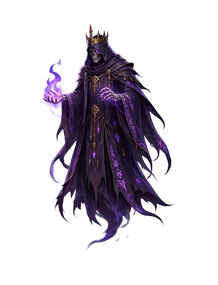
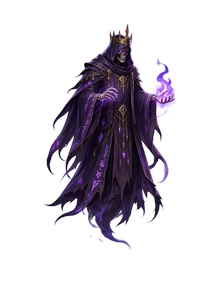
Mordath: 1º quadro do andar espelhado e chefe desenhado por cima dos mobs
- walk_0 olhava para trás: espelhado (pés continuam alinhados no centro do quadro)
- Chefe no nível de desenho acima dos mobs (inclusive os que ele invoca);
  anjo, projéteis e efeitos no mesmo nível, mantendo a ordem chefe < anjo < efeitos

Changed region(s): [[0.1927, 0.0842, 0.8257, 0.8702], [0.7156, 0.1965, 0.7431, 0.2246]]

diff --git a/art_source/README.md b/art_source/README.md
@@ -12,7 +12,7 @@ Esta pasta tem `.gdignore`: o Godot NÃO importa nem exporta nada daqui (não pe
 | `hell_projectile_sheet.webp` | Projétil da Morte do Inferno (6 quadros, fundo branco): esfera com penas, estrela, 3 quadros do projétil, desfazendo | Recortada em `assets/angel/hp_charge`, `hp_burst`, `hp_bolt_0..2`, `hp_fade` (usados por `AngelShot.hell_shot`). A prévia animada que veio junto não é usada |
 | `spear_frames.zip` | Lança Celestial: 6 quadros 832x832 com transparência (surgir, carregar, disparar, voar, impacto, desfazer) | Recortados (só o vazio) em `assets/skills/celestial_lance/frame_1..6.png`; pontos de referência em `LanceFx.PIVOTS` |
 | `baal/` (6 folhas, fundo transparente) | Baal: andar, preparar/correr a investida, pancada em área, golpe corpo a corpo (`baal_melee`, o 3º quadro não é usado), morte | Recortadas (metade da resolução, tamanho igualado entre as folhas) em `assets/bosses/baal/*.png`, todas num quadro 380x232 com os pés no mesmo ponto; animações em `BossArt.SHEETS`. O 1º quadro da morte foi espelhado (olhava para o outro lado). O avanço da folha de investida (3º quadro) não é usado |
-| `mordath/` (6 folhas, fundo transparente) | Mordath: flutuar, conjurar/lançar, invocar, morte, portal de invocação, bola de fogo | Corpo em `assets/bosses/mordath/*.png` (quadro 218x285, pés/barra da capa alinhados; animações em `BossArt.SHEETS`). Efeitos em `assets/bosses/mordath/fx/` (`BossFx`). **Sem uso:** os 3 últimos quadros do portal e os 2 últimos da invocação (pedido do usuário); o leque e a bola desenhados nos quadros de lançar foram cortados (as bolas de verdade saem da mão) |
+| `mordath/` (6 folhas, fundo transparente) | Mordath: flutuar, conjurar/lançar, invocar, morte, portal de invocação, bola de fogo | Corpo em `assets/bosses/mordath/*.png` (quadro 218x285, pés/barra da capa alinhados; animações em `BossArt.SHEETS`; o 1º quadro do andar foi espelhado, olhava para trás). Efeitos em `assets/bosses/mordath/fx/` (`BossFx`). **Sem uso:** os 3 últimos quadros do portal e os 2 últimos da invocação (pedido do usuário); o leque e a bola desenhados nos quadros de lançar foram cortados (as bolas de verdade saem da mão) |
 | `angel_v2_c.webp`, `angel_v2_ultra.webp` | Mesmas poses redesenhadas (asas iguais); a `ultra` tem a fase Ultra-Power com céu/chão desenhados atrás | Guardadas. As da `ultra` com cenário não dão para recortar sem refazer o fundo |
 | `mobs_sheet.webp` | Mobs (gosma, guerreiro de escudo, espectro, golem de lava, diabinho, demônio roxo, aranha) e 4 anjos | Recortada em `assets/mobs/` (dados em `MobArt.SHEETS`). **Sem uso por enquanto:** aranha e os 4 anjos |
 | `world_props_sheet.png` | Objetos do **mundo aberto** (portal, arcos, muralhas, estandartes, ilhas flutuantes, chão de lava) | **Guardada para depois.** Atenção: o fundo xadrez está DESENHADO na imagem (não é transparência de verdade); antes de usar, precisa remover o xadrez ou pedir a folha com fundo transparente |
